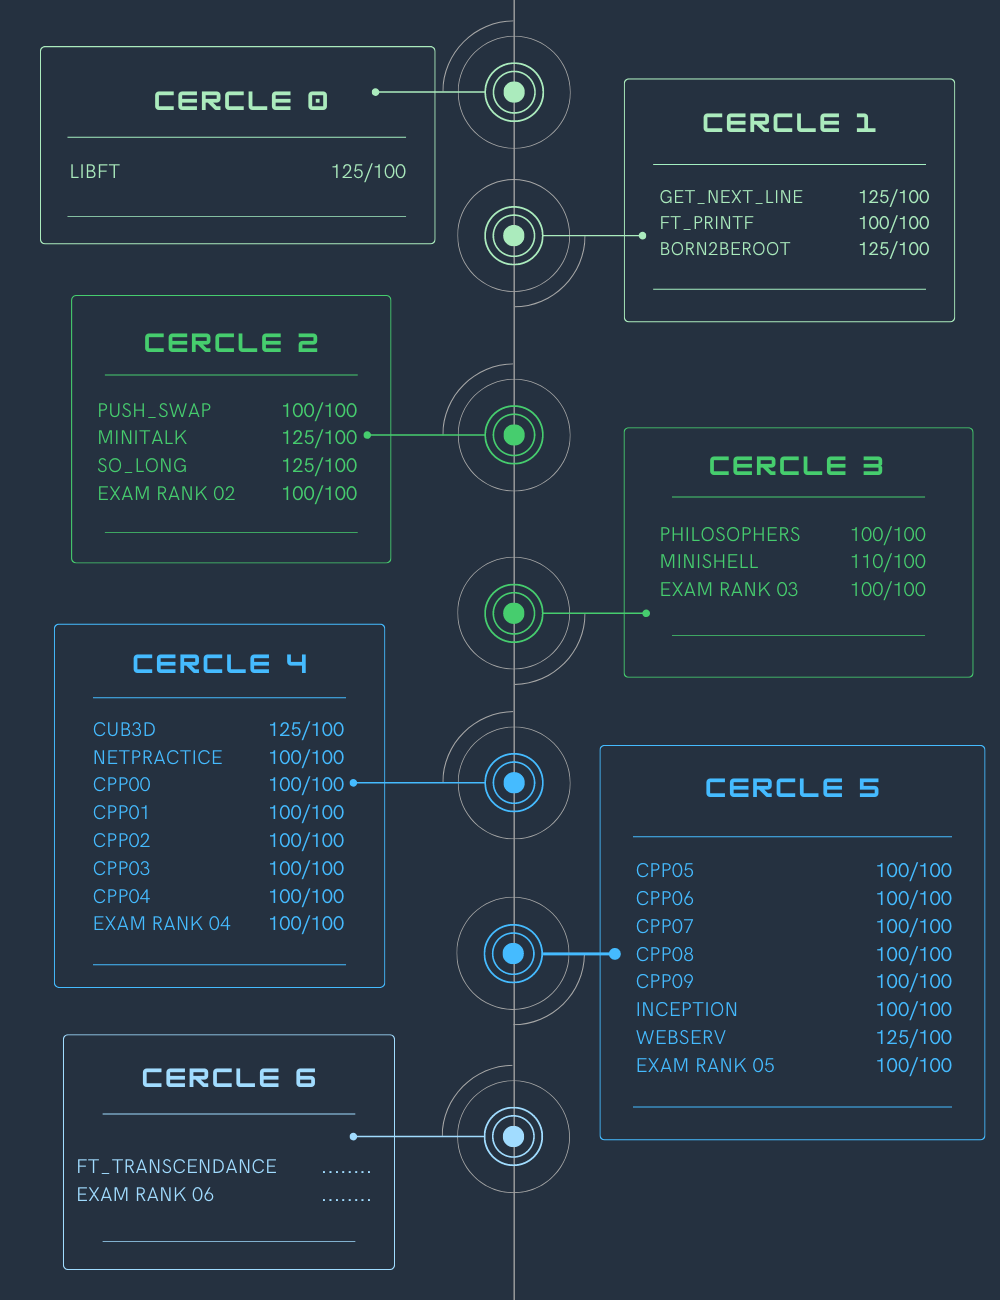
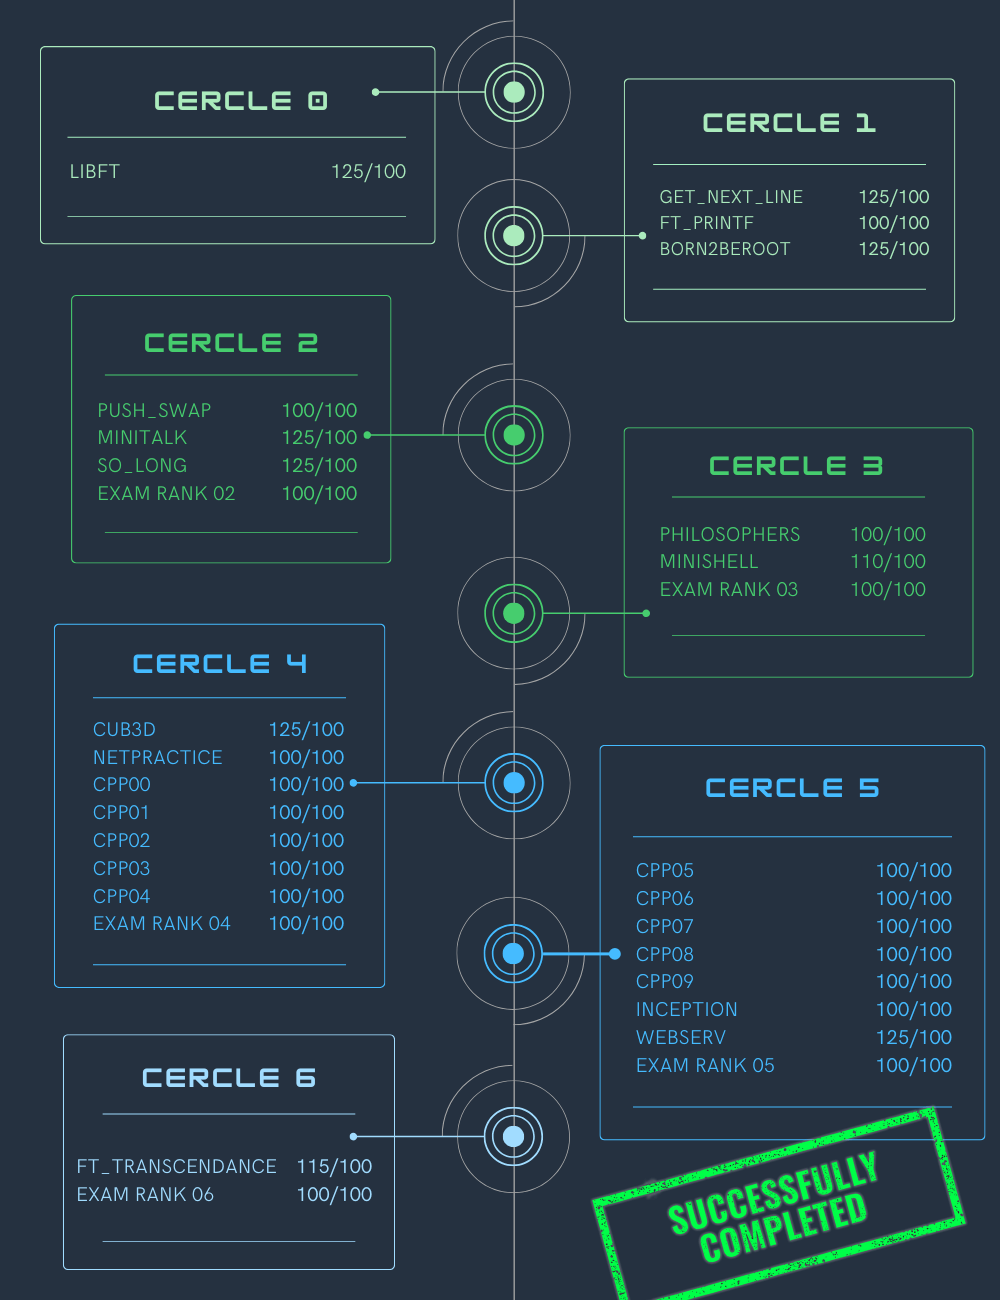
update

Changed region(s): [[0.589, 0.8615, 0.961, 1.0], [0.31, 0.8923, 0.372, 0.9231], [0.899, 0.8308, 0.93, 0.8615]]

diff --git a/README.md b/README.md
@@ -60,7 +60,7 @@
 ---
 
 <a href="https://github.com/aceyzz/ft_transcendence"><img src="utils/19.png" alt="transcendance" style="width: 80%;">
-<img src="utils/dots.png" alt="grade" style="width: 19%;"></a>
+<img src="utils/115.png" alt="grade" style="width: 19%;"></a>
 
 ---
 
@@ -78,6 +78,9 @@
 <img src="utils/100.png" alt="grade" style="width: 19%;"></a>
 
 <a href="https://github.com/aceyzz/42-Exam/tree/master/exam_rank_05"><img src="utils/exam05.png" alt="ex04" style="width: 80%;">
+<img src="utils/100.png" alt="grade" style="width: 19%;"></a>
+
+<a href="https://github.com/aceyzz/42-Exam/tree/master/exam_rank_06"><img src="utils/exam06.png" alt="ex04" style="width: 80%;">
 <img src="utils/100.png" alt="grade" style="width: 19%;"></a>
 
 <br>
